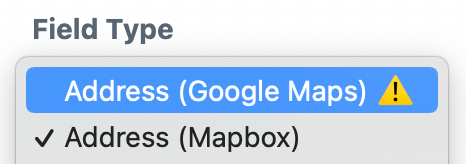
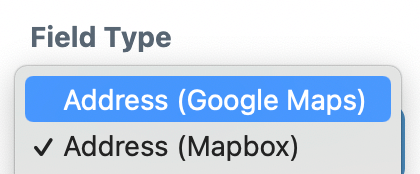
Registered compatibility for the Address field

Changed region(s): [[0.031, 0.3354, 0.9905, 1.0], [0.0619, 0.7622, 0.7119, 0.9451], [0.0619, 0.0915, 0.4333, 0.3049]]

diff --git a/src/GoogleMapsPlugin.php b/src/GoogleMapsPlugin.php
@@ -18,6 +18,7 @@ use craft\base\Model;
 use craft\base\Plugin;
 use craft\elements\Entry;
 use craft\events\ConfigEvent;
+use craft\events\DefineCompatibleFieldTypesEvent;
 use craft\events\ModelEvent;
 use craft\events\PluginEvent;
 use craft\events\RegisterComponentTypesEvent;
@@ -97,6 +98,7 @@ class GoogleMapsPlugin extends Plugin
 
         // Register all events
         $this->_registerFieldType();
+        $this->_registerCompatibleFieldTypes();
         $this->_registerExporters();
 
         // Manage conversions of the Address field
@@ -155,6 +157,27 @@ class GoogleMapsPlugin extends Plugin
     }
 
     /**
+     * Register all field type compatibility.
+     * Declare THIS field safe for OTHER fields.
+     *
+     * @return void
+     */
+    private function _registerCompatibleFieldTypes(): void
+    {
+        Event::on(
+            Fields::class,
+            Fields::EVENT_DEFINE_COMPATIBLE_FIELD_TYPES,
+            static function (DefineCompatibleFieldTypesEvent $event) {
+                // If it's a Mapbox field
+                if (is_a($event->field, 'doublesecretagency\mapbox\fields\AddressField')) {
+                    // Tell it that the Google Maps field is compatible
+                    $event->compatibleTypes[] = AddressField::class;
+                }
+            }
+        );
+    }
+
+    /**
      * Register the exporters.
      *
      * @return void
@@ -195,7 +218,7 @@ class GoogleMapsPlugin extends Plugin
      */
     private function _manageFieldTypeConversions(): void
     {
-        // If Mapbox plugin is not installed, bail
+        // If Mapbox plugin is not installed and enabled, bail
         if (!Craft::$app->getPlugins()->isPluginEnabled('mapbox')) {
             return;
         }

diff --git a/src/helpers/GoogleMaps.php b/src/helpers/GoogleMaps.php
@@ -52,17 +52,17 @@ class GoogleMaps
         $manager = Craft::$app->getAssetManager();
         $assets = '@doublesecretagency/googlemaps/resources';
 
-        // Link to Google Maps JavaScript API URL
-        $files = [self::getApiUrl($params)];
-
-        // CDN for MarkerClusterer library
-        $files[] = 'https://unpkg.com/@googlemaps/markerclusterer/dist/index.min.js';
-
         // Whether to use minified JavaScript files
         $minifyJsFiles = (GoogleMapsPlugin::$plugin->getSettings()->minifyJsFiles ?? false);
 
         // Optionally use minified files
         $min = ($minifyJsFiles ? 'min.' : '');
+
+        // Link to Google Maps JavaScript API URL
+        $files = [self::getApiUrl($params)];
+
+        // CDN for MarkerClusterer library
+        $files[] = 'https://unpkg.com/@googlemaps/markerclusterer/dist/index.min.js';
 
         // Append both JS files required by plugin
         $files[] = $manager->getPublishedUrl($assets, true, "js/googlemaps.{$min}js");

diff --git a/docs/guides/converting-from-mapbox.md b/docs/guides/converting-from-mapbox.md
@@ -29,13 +29,7 @@ meta:
 
 Converting from an "Address (Mapbox)" field to an "Address (Google Maps)" field is relatively straightforward... simply **switch the field type** on the field's settings page.
 
-<img class="dropshadow" :src="$withBase('/images/guides/switch-field-type.png')" alt="Screenshot of field type select being switched to Address (Google Maps)" width="233" style="margin-left:20px; margin-bottom:4px;">
-
-:::warning Ignorable Warning ⚠
-You might be warned that these two field types are not compatible, but they actually are!
-
-It is safe to ignore the warning about field type compatibility.
-:::
+<img class="dropshadow" :src="$withBase('/images/guides/switch-field-type.png')" alt="Screenshot of field type select being switched to Address (Google Maps)" width="210" style="margin-left:20px; margin-bottom:4px;">
 
 Once you have saved the field as an "Address (Google Maps)" field, all data associated with that field will automatically be imported into the Google Maps plugin.
 

diff --git a/CHANGELOG.md b/CHANGELOG.md
@@ -3,6 +3,7 @@
 ## Unreleased
 
 ### Changed
+- Marked Address field as compatible with the Mapbox plugin.
 - Now requires a minimum of Craft 4.5.7.
 
 ## 4.3.7 - 2023-10-17
